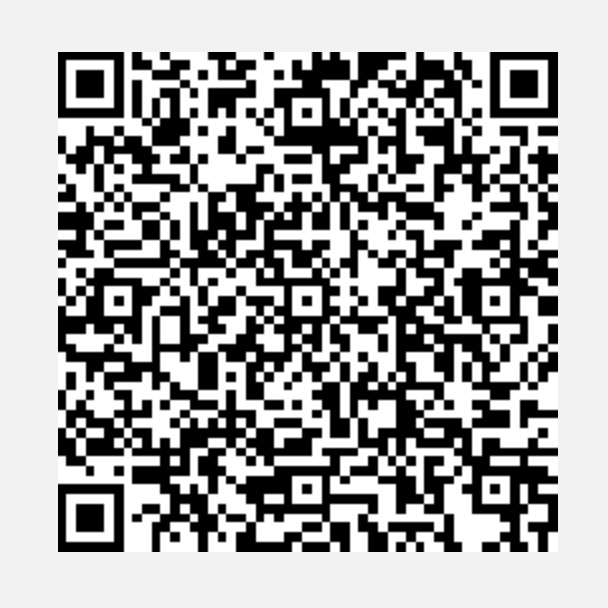
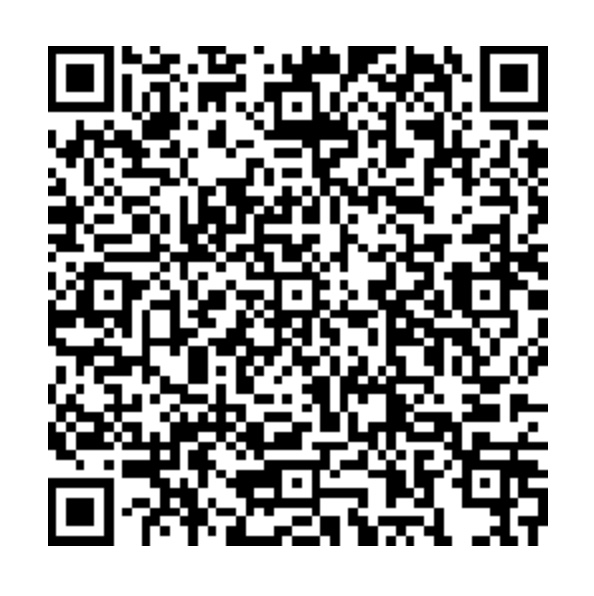
docs: readme

diff --git a/README.md b/README.md
@@ -1,3 +1,40 @@
 # Wi-Fi clock
 
-TBD
+
+> *A **simple clock** powered by an **ESP32**, featuring an old-school **VFD display** for a retro aesthetic. This project syncs time via the **internet**, ensuring accurate and reliable timekeeping without manual adjustments.*
+
+- photo
+
+### Wifi provisioning
+Wi-Fi provisioning allows configuring and connecting the device to a Wi-Fi network without hardcoding credentials. This is especially useful for IoT applications, allowing users to set up Wi-Fi easily via a smartphone or another device.<br/>
+It works using Bluetooth where the ESP32 creates a temporary access point or uses BLE to receive Wi-Fi credentials securely.
+
+Espressif provides an official [ESP BLE Provisioning](https://apps.apple.com/us/app/esp-ble-provisioning/id1473590141) app for iOS (and Android), enabling seamless Wi-Fi setup using Bluetooth.<br/>
+This makes deployments more user-friendly, eliminating the need to reflash firmware for network changes.
+
+Scan the QR code for setting up WiFi network.
+
+<img src="./assets/wifi-qr.jpg" width="200">
+
+### Time sync
+The clock gets its time from the internet using NTP (Network Time Protocol), so you never have to set it manually! NTP works by asking a time server for the current UTC time and then adjusting the clock accordingly.<br/>
+Since the ESP32 doesn’t have a built-in battery-backed clock, this ensures it always shows the right time, even after a restart or power loss.
+
+You can configure your timezone in [datetime.c](./main/datetime.c).
+After that, just connect it to Wi-Fi, and it handles the rest! ⏰🌍
+
+### VFD display
+A VFD (Vacuum Fluorescent Display) is a retro display tech that gives off a bright, high-contrast glow—just like the ones you’d find in vintage clocks, old-school radios, and cash registers. Unlike LCDs, it lights up on its own, so it's super easy to read in any lighting.
+
+This project uses an **SPI** connection to talk to the VFD driver, meaning the ESP32 sends data over just a few wires to control what gets displayed.
+
+Check [Aliexpress](https://www.aliexpress.com/item/1005002932421503.html) or VFD display [datasheet](./assets//futaba-datasheet.pdf) to learn more about the specifics.
+
+
+### ESP32
+This project specifically uses the [XIAO_ESP32C3](https://wiki.seeedstudio.com/XIAO_ESP32C3_Getting_Started/), a compact ESP32-C3 board that’s great for small builds but has some differences from other ESP32 models.<br/>
+One key thing to note is that it uses **different GPIO port numbers** in ESP-IDF, so make sure to check the correct pin mappings before wiring things up!<br/>
+You can check the [arduino-esp32](https://github.com/espressif/arduino-esp32/blob/master/variants/XIAO_ESP32C3/pins_arduino.h) project for the details or view [vfd.h](./main/vfd.h)
+
+
+<img src="./assets/esp32c3-pinout.webp">
